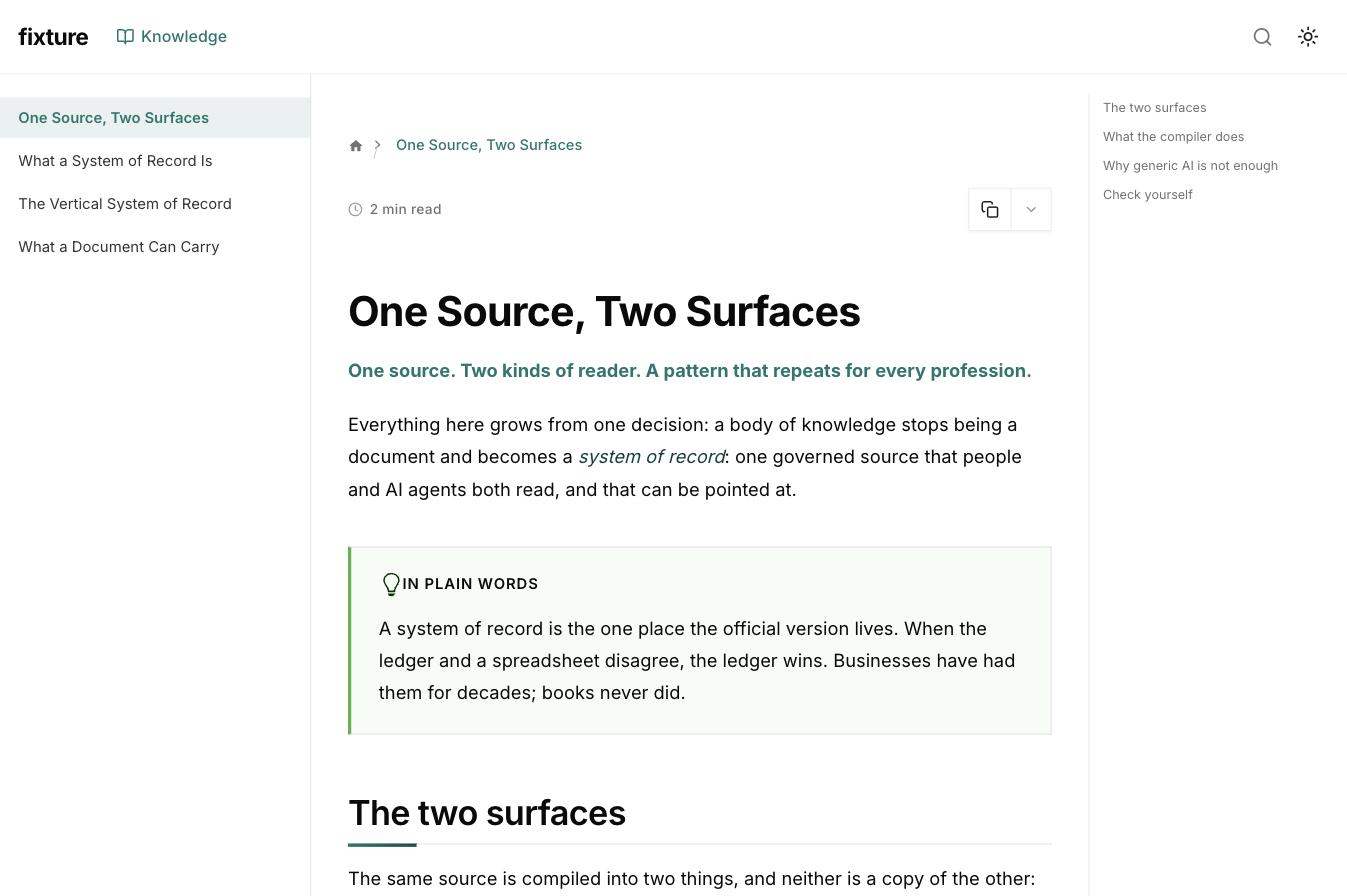
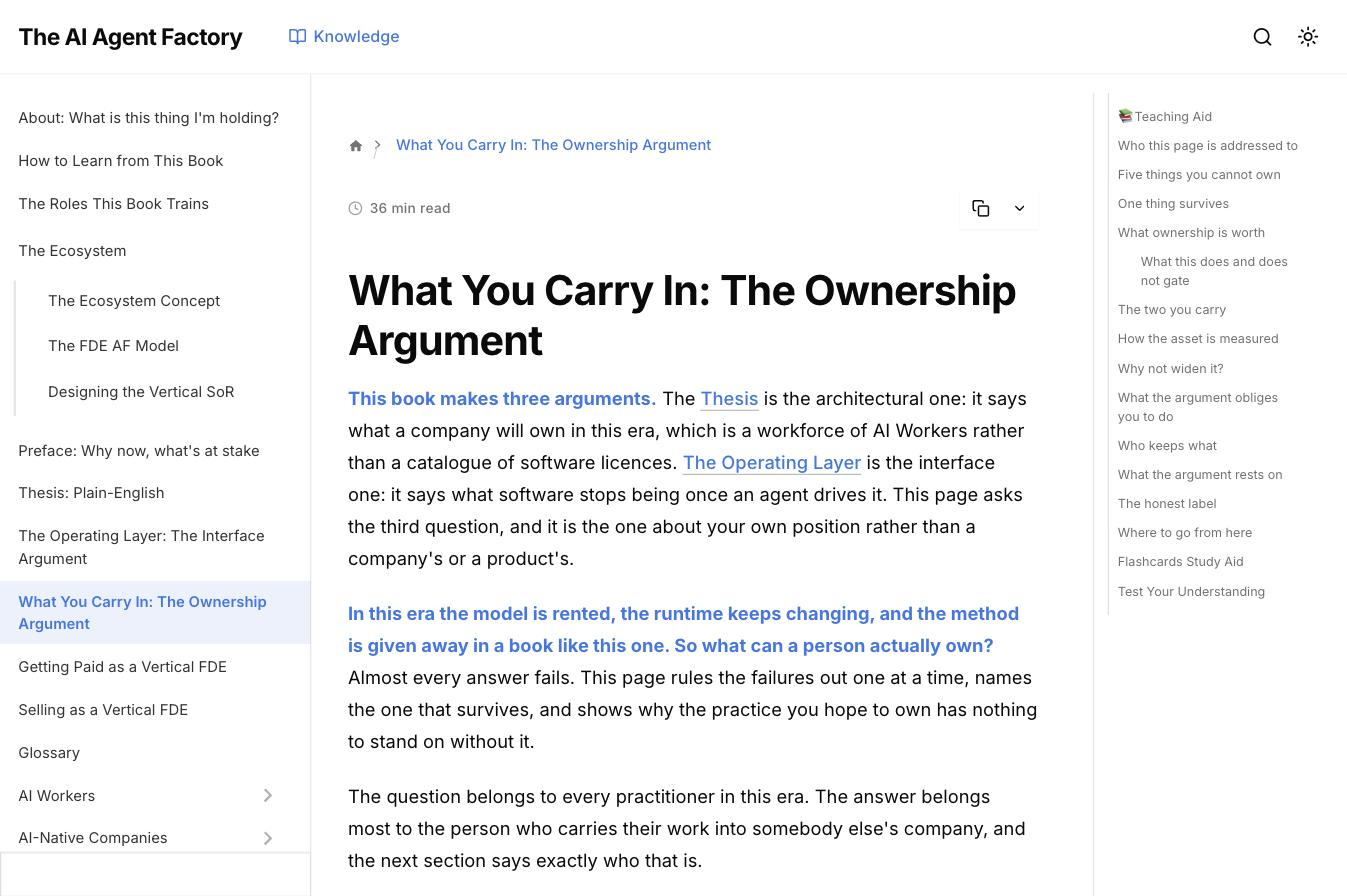
Plain English, real screenshots, and a build-breaking bug the demo found
"No one can understand what you are writing" was right. The page was written
for us: governed Vertical Systems of Record, corpus, citable MCP server. A tax
accountant reads that and learns nothing. It now says what happens in words
anyone owns — point an AI at your own files, get answers that name the file, or
a plain "that isn't in here". MCP is introduced as what it is (the standard
assistants use to reach outside tools) rather than assumed. "Corpus" is gone
from the page entirely; it is a folder.

The screenshots are now a real build of real Agent Factory content — 21
documents, three sections, the sidebar and reading time and table of contents
a reader actually meets — instead of a corpus named FIXTURE.

Making them found a real bug, which is the argument for building demos out of
real material. The shell wired the content-enhancements plugin with
enableSlides: true, but <SlidesViewer> is upstream product code the negative
contract excludes and this shell does not ship. Any corpus carrying a `slides:`
frontmatter key — the corpus this shell was forked from carries it on real
pages — failed the build with "Expected component `SlidesViewer` to be
defined": a component the owner never wrote and cannot provide. The
transformer is off, with the measurement recorded beside it.

The uvx cache trap our own skill records also bit while fixing this: same wheel
path, same version, so the pre-fix wheel was served and the fix looked inert.
[…]

diff --git a/packages/sor-site/app/docusaurus.config.ts b/packages/sor-site/app/docusaurus.config.ts
@@ -123,7 +123,13 @@ const remarkPlugins = [
   [remarkTabs, tabPresets.osTabs],
   require("@vsor/lib-remark-flashcards"),
   require("@vsor/lib-remark-gallery"),
-  [require("@vsor/lib-remark-content-enhancements"), { enableSlides: true }],
+  // enableSlides is OFF: the transformer turns a `slides:` frontmatter key into a
+  // <SlidesViewer>, and that component is upstream product code the negative contract
+  // excludes — it is not in this shell. Left on, any corpus carrying `slides:` in its
+  // frontmatter failed the build with "Expected component `SlidesViewer` to be defined",
+  // naming a component the owner never wrote and cannot provide (found live 2026-08-15
+  // against the corpus this shell was forked from, which carries the key on real pages).
+  [require("@vsor/lib-remark-content-enhancements"), { enableSlides: false }],
 ];
 
 const beforeDefaultRemarkPlugins = [

diff --git a/README.md b/README.md
@@ -2,8 +2,8 @@
 
 **Answers you can trace. Refusals you can trust.**
 
-Point an AI assistant at your own body of professional knowledge and get answers that name the
-document they came from — and an honest *"that isn't in here"* when the question falls outside it.
+Point an AI assistant at your own files and get answers that name the file they came from — and a
+plain *"that isn't in here"* when the question falls outside them.
 
 ```bash
 vsor init my-sor      # a project in your own repo: markdown, config, git initialized
@@ -12,59 +12,56 @@ vsor dev              # the live site on 127.0.0.1:3000, reloading as you write
 vsor build            # → build/, ready to upload anywhere
 ```
 
-## What you get, out of the box
+## What you get
 
-Four markdown files in `knowledge/` produce this — no theme to pick, no components to wire, no
-build config to write. Both screenshots are the fixture corpus this repository tests against, not
-a mockup.
+Write markdown. Run one command. You get a site like this — no theme to pick, no components to
+wire, no build config. Both pictures are a real build of a real corpus, not a mockup:
 
-![The generated homepage: a hero built from the project's own name and tagline, and a panel
-counting the documents in the corpus](docs/images/home.jpg)
+![The generated homepage: the project's own name and tagline, and a panel counting the documents
+and sections found in the folder](docs/images/home.jpg)
 
-![A generated document page: sidebar, breadcrumbs, reading time, copy-as-markdown, an
-in-page table of contents, and an admonition](docs/images/doc-page.jpg)
+![A generated document page: sidebar built from the folder tree, breadcrumbs, reading time,
+copy-as-markdown, and an in-page table of contents](docs/images/doc-page.jpg)
 
-Your corpus is just a folder. Sub-folders become sections; frontmatter sets titles and order:
+Your side of it is a folder. Sub-folders become sections; a line of frontmatter sets the title:
 
 ```
 knowledge/
-  one-source-two-surfaces.md
-  system-of-record.md
-  vertical-sor.md
-  document-primitives.md      ← <Quiz />, flashcards and callouts, if a document wants them
+  about.md
+  thesis.md
+  ecosystem/
+    the-ecosystem-concept.md
 instance.md                   ← what this deployment is
 site/docusaurus.config.ts     ← title, navbar, colours — the parts that are yours
 ```
 
-## The problem this exists for
+## Why not just use a chatbot
 
-A general-purpose assistant answers everything in the same confident voice: your firm's rules and
-a stranger's, this year's threshold and last year's, the part it checked and the part it invented.
-If you are accountable for the answer, that is not a quirk to work around. It is the reason you
+A general-purpose assistant answers everything in the same confident voice: your rules and a
+stranger's, this year's number and last year's, the part it checked and the part it made up. If
+you are the one who has to stand behind the answer, that is not a rough edge. It is the reason you
 cannot use it.
 
-The fix is not a better model. It is a **system of record** — one governed source that both your
-people and your machines read, where every answer can be traced back to a document, and where the
-correct response to an uncovered question is to say so.
+What fixes it is not a smarter model. It is having **one source everyone reads** — your people
+through a website, your AI through a connector — where every answer points back to the document it
+came from, and where "we don't cover that" is a real answer instead of an invented one.
 
-## What vsor does
+## The two things vsor builds
 
-You write markdown in `knowledge/`. One command compiles it into two surfaces that never disagree,
-because they are built from the same source:
+Both come from the same folder, so they can never disagree:
 
-- **A website your people read** — search, dark mode, quizzes and flashcards, self-hosted fonts,
-  and **no external requests at all**. It works behind a firewall.
-- **An MCP server your AI answers from** — every answer names its document and the numbered
-  version it came from; a question the corpus does not cover is declined, not guessed.
+- **A website your team reads.** Search, dark mode, quizzes and flashcards, self-hosted fonts, and
+  **no calls to anyone else's server**. It works behind a firewall.
+- **A connector your AI answers from** (MCP — the standard assistants like Claude use to reach
+  outside tools). Every answer names its document; a question your files do not cover is declined.
 
-Every build also writes `build.lock.json`: a committed record of exactly which documents were
-built, from which commit, with which tool versions. When someone asks why the assistant said what
-it said, that file is how you find out.
+Every build also writes `build.lock.json` — a record of exactly which documents went in, from
+which commit, with which versions. When someone asks *why did it say that*, that file is how you
+find out.
 
-It is not an agent framework. It is the knowledge layer such frameworks read *from* — for people
-who own knowledge they are accountable for, and for the engineers and agents who build on it.
-Your project stays markdown and one config file; the machinery is installed rather than copied,
-so it upgrades underneath you.
+It is not an agent framework. It is the layer such frameworks read *from*. Your project stays
+markdown and one config file; the machinery is installed rather than copied in, so it upgrades
+underneath you without touching your work.
 
 ## Status
 
